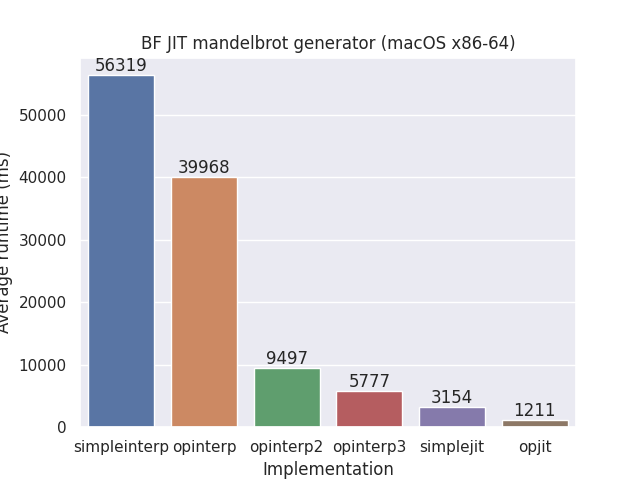
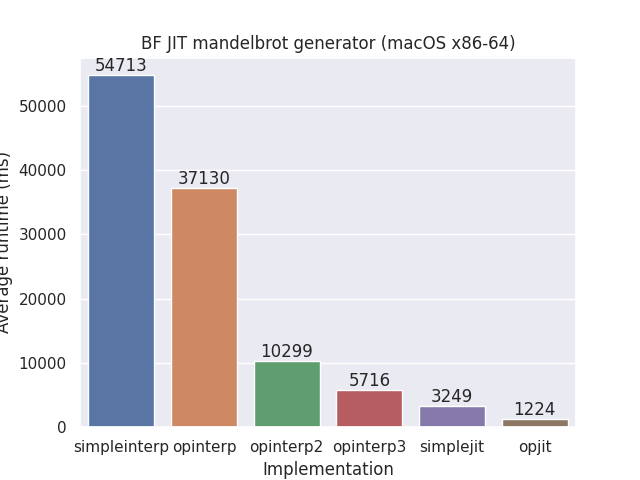
deploy: 50c344028abc7e2e6bb6fd50025e3222174b6dc7

diff --git a/bench/index.html b/bench/index.html
@@ -1,1 +1,1 @@
-<!DOCTYPE html><html lang="en"><head><meta charset="utf-8"><meta name="viewport" content="width=device-width, initial-scale=1.0"><meta name="generator" content="rustdoc"><meta name="description" content="API documentation for the Rust `bench` crate."><meta name="keywords" content="rust, rustlang, rust-lang, bench"><title>bench - Rust</title><link rel="preload" as="font" type="font/woff2" crossorigin href="../SourceSerif4-Regular.ttf.woff2"><link rel="preload" as="font" type="font/woff2" crossorigin href="../FiraSans-Regular.woff2"><link rel="preload" as="font" type="font/woff2" crossorigin href="../FiraSans-Medium.woff2"><link rel="preload" as="font" type="font/woff2" crossorigin href="../SourceCodePro-Regular.ttf.woff2"><link rel="preload" as="font" type="font/woff2" crossorigin href="../SourceSerif4-Bold.ttf.woff2"><link rel="preload" as="font" type="font/woff2" crossorigin href="../SourceCodePro-Semibold.ttf.woff2"><link rel="stylesheet" href="../normalize.css"><link rel="stylesheet" href="../rustdoc.css" id="mainThemeStyle"><link rel="stylesheet" href="../ayu.css" disabled><link rel="stylesheet" href="../dark.css" disabled><link rel="stylesheet" href="../light.css" id="themeStyle"><script id="default-settings" ></script><script src="../storage.js"></script><script defer src="../crates.js"></script><script defer src="../main.js"></script><noscript><link rel="stylesheet" href="../noscript.css"></noscript><link rel="alternate icon" type="image/png" href="../favicon-16x16.png"><link rel="alternate icon" type="image/png" href="../favicon-32x32.png"><link rel="icon" type="image/svg+xml" href="../favicon.svg"></head><body class="rustdoc mod crate"><!--[if lte IE 11]><div class="warning">This old browser is unsupported and will most likely display funky things.</div><![endif]--><nav class="mobile-topbar"><button class="sidebar-menu-toggle">&#9776;</button><a class="sidebar-logo" href="../bench/index.html"><div class="logo-container"><img class="rust-logo" src="../rust-logo.svg" alt="logo"></div></a><h2 class="location"></h2></nav><nav class="sidebar"><a class="sidebar-logo" href="../bench/index.html"><div class="logo-container"><img class="rust-logo" src="../rust-logo.svg" alt="logo"></div></a><h2 class="location"><a href="#">Crate bench</a></h2><div class="sidebar-elems"><div class="block"><ul><li class="version">Version 0.1.0</li><li><a id="all-types" href="all.html">All Items</a></li></ul></div><section><div class="block"><ul><li><a href="#macros">Macros</a></li><li><a href="#structs">Structs</a></li><li><a href="#constants">Constants</a></li><li><a href="#functions">Functions</a></li></ul></div></section></div></nav><main><div class="width-limiter"><div class="sub-container"><a class="sub-logo-container" href="../bench/index.html"><img class="rust-logo" src="../rust-logo.svg" alt="logo"></a><nav class="sub"><form class="search-form"><div class="search-container"><span></span><input class="search-input" name="search" autocomplete="off" spellcheck="false" placeholder="Click or press ‘S’ to search, ‘?’ for more options…" type="search"><div id="help-button" title="help" tabindex="-1"><button type="button">?</button></div><div id="settings-menu" tabindex="-1"><a href="../settings.html" title="settings"><img width="22" height="22" alt="Change settings" src="../wheel.svg"></a></div></div></form></nav></div><section id="main-content" class="content"><div class="main-heading"><h1 class="fqn"><span class="in-band">Crate <a class="mod" href="#">bench</a><button id="copy-path" onclick="copy_path(this)" title="Copy item path to clipboard"><img src="../clipboard.svg" width="19" height="18" alt="Copy item path"></button></span></h1><span class="out-of-band"><a class="srclink" href="../src/bench/lib.rs.html#1-175">source</a> · <a id="toggle-all-docs" href="javascript:void(0)" title="collapse all docs">[<span class="inner">&#x2212;</span>]</a></span></div><h2 id="macros" class="small-section-header"><a href="#macros">Macros</a></h2><div class="item-table"><div class="item-row"><div class="item-left module-item"><a class="macro" href="macro.arch_id.html" title="bench::arch_id macro">arch_id</a><span title="Restricted Visibility">&nbsp;🔒</span> </div></div><div class="item-row"><div class="item-left module-item"><a class="macro" href="macro.os_id.html" title="bench::os_id macro">os_id</a><span title="Restricted Visibility">&nbsp;🔒</span> </div></div></div><h2 id="structs" class="small-section-header"><a href="#structs">Structs</a></h2><div class="item-table"><div class="item-row"><div class="item-left module-item"><a class="struct" href="struct.ImplInfo.html" title="bench::ImplInfo struct">ImplInfo</a><span title="Restricted Visibility">&nbsp;🔒</span> </div></div></div><h2 id="constants" class="small-section-header"><a href="#constants">Constants</a></h2><div class="item-table"><div class="item-row"><div class="item-left module-item"><a class="constant" href="constant.ARCH_NAME.html" title="bench::ARCH_NAME constant">ARCH_NAME</a><span title="Restricted Visibility">&nbsp;🔒</span> </div></div><div class="item-row"><div class="item-left module-item"><a class="constant" href="constant.BENCH_DATA_DIR_NAME.html" title="bench::BENCH_DATA_DIR_NAME constant">BENCH_DATA_DIR_NAME</a><span title="Restricted Visibility">&nbsp;🔒</span> </div></div><div class="item-row"><div class="item-left module-item"><a class="constant" href="constant.DATA_FILE_PREFIX.html" title="bench::DATA_FILE_PREFIX constant">DATA_FILE_PREFIX</a><span title="Restricted Visibility">&nbsp;🔒</span> </div></div><div class="item-row"><div class="item-left module-item"><a class="constant" href="constant.OS_NAME.html" title="bench::OS_NAME constant">OS_NAME</a><span title="Restricted Visibility">&nbsp;🔒</span> </div></div></div><h2 id="functions" class="small-section-header"><a href="#functions">Functions</a></h2><div class="item-table"><div class="item-row"><div class="item-left module-item"><a class="fn" href="fn.benchmark.html" title="bench::benchmark fn">benchmark</a><span title="Restricted Visibility">&nbsp;🔒</span> </div></div><div class="item-row"><div class="item-left module-item"><a class="fn" href="fn.measure_results.html" title="bench::measure_results fn">measure_results</a></div></div><div class="item-row"><div class="item-left module-item"><a class="fn" href="fn.measure_results_for_file.html" title="bench::measure_results_for_file fn">measure_results_for_file</a><span title="Restricted Visibility">&nbsp;🔒</span> </div></div><div class="item-row"><div class="item-left module-item"><a class="fn" href="fn.output_data.html" title="bench::output_data fn">output_data</a><span title="Restricted Visibility">&nbsp;🔒</span> </div></div></div></section></div></main><div id="rustdoc-vars" data-root-path="../" data-current-crate="bench" data-themes="ayu,dark,light" data-resource-suffix="" data-rustdoc-version="1.65.0 (897e37553 2022-11-02)" ></div></body></html>
+<!DOCTYPE html><html lang="en"><head><meta charset="utf-8"><meta name="viewport" content="width=device-width, initial-scale=1.0"><meta name="generator" content="rustdoc"><meta name="description" content="API documentation for the Rust `bench` crate."><meta name="keywords" content="rust, rustlang, rust-lang, bench"><title>bench - Rust</title><link rel="preload" as="font" type="font/woff2" crossorigin href="../SourceSerif4-Regular.ttf.woff2"><link rel="preload" as="font" type="font/woff2" crossorigin href="../FiraSans-Regular.woff2"><link rel="preload" as="font" type="font/woff2" crossorigin href="../FiraSans-Medium.woff2"><link rel="preload" as="font" type="font/woff2" crossorigin href="../SourceCodePro-Regular.ttf.woff2"><link rel="preload" as="font" type="font/woff2" crossorigin href="../SourceSerif4-Bold.ttf.woff2"><link rel="preload" as="font" type="font/woff2" crossorigin href="../SourceCodePro-Semibold.ttf.woff2"><link rel="stylesheet" href="../normalize.css"><link rel="stylesheet" href="../rustdoc.css" id="mainThemeStyle"><link rel="stylesheet" href="../ayu.css" disabled><link rel="stylesheet" href="../dark.css" disabled><link rel="stylesheet" href="../light.css" id="themeStyle"><script id="default-settings" ></script><script src="../storage.js"></script><script defer src="../crates.js"></script><script defer src="../main.js"></script><noscript><link rel="stylesheet" href="../noscript.css"></noscript><link rel="alternate icon" type="image/png" href="../favicon-16x16.png"><link rel="alternate icon" type="image/png" href="../favicon-32x32.png"><link rel="icon" type="image/svg+xml" href="../favicon.svg"></head><body class="rustdoc mod crate"><!--[if lte IE 11]><div class="warning">This old browser is unsupported and will most likely display funky things.</div><![endif]--><nav class="mobile-topbar"><button class="sidebar-menu-toggle">&#9776;</button><a class="sidebar-logo" href="../bench/index.html"><div class="logo-container"><img class="rust-logo" src="../rust-logo.svg" alt="logo"></div></a><h2 class="location"></h2></nav><nav class="sidebar"><a class="sidebar-logo" href="../bench/index.html"><div class="logo-container"><img class="rust-logo" src="../rust-logo.svg" alt="logo"></div></a><h2 class="location"><a href="#">Crate bench</a></h2><div class="sidebar-elems"><div class="block"><ul><li class="version">Version 0.1.0</li><li><a id="all-types" href="all.html">All Items</a></li></ul></div><section><div class="block"><ul><li><a href="#macros">Macros</a></li><li><a href="#structs">Structs</a></li><li><a href="#constants">Constants</a></li><li><a href="#functions">Functions</a></li></ul></div></section></div></nav><main><div class="width-limiter"><div class="sub-container"><a class="sub-logo-container" href="../bench/index.html"><img class="rust-logo" src="../rust-logo.svg" alt="logo"></a><nav class="sub"><form class="search-form"><div class="search-container"><span></span><input class="search-input" name="search" autocomplete="off" spellcheck="false" placeholder="Click or press ‘S’ to search, ‘?’ for more options…" type="search"><div id="help-button" title="help" tabindex="-1"><button type="button">?</button></div><div id="settings-menu" tabindex="-1"><a href="../settings.html" title="settings"><img width="22" height="22" alt="Change settings" src="../wheel.svg"></a></div></div></form></nav></div><section id="main-content" class="content"><div class="main-heading"><h1 class="fqn"><span class="in-band">Crate <a class="mod" href="#">bench</a><button id="copy-path" onclick="copy_path(this)" title="Copy item path to clipboard"><img src="../clipboard.svg" width="19" height="18" alt="Copy item path"></button></span></h1><span class="out-of-band"><a class="srclink" href="../src/bench/lib.rs.html#1-179">source</a> · <a id="toggle-all-docs" href="javascript:void(0)" title="collapse all docs">[<span class="inner">&#x2212;</span>]</a></span></div><h2 id="macros" class="small-section-header"><a href="#macros">Macros</a></h2><div class="item-table"><div class="item-row"><div class="item-left module-item"><a class="macro" href="macro.arch_id.html" title="bench::arch_id macro">arch_id</a><span title="Restricted Visibility">&nbsp;🔒</span> </div></div><div class="item-row"><div class="item-left module-item"><a class="macro" href="macro.os_id.html" title="bench::os_id macro">os_id</a><span title="Restricted Visibility">&nbsp;🔒</span> </div></div></div><h2 id="structs" class="small-section-header"><a href="#structs">Structs</a></h2><div class="item-table"><div class="item-row"><div class="item-left module-item"><a class="struct" href="struct.ImplInfo.html" title="bench::ImplInfo struct">ImplInfo</a><span title="Restricted Visibility">&nbsp;🔒</span> </div></div></div><h2 id="constants" class="small-section-header"><a href="#constants">Constants</a></h2><div class="item-table"><div class="item-row"><div class="item-left module-item"><a class="constant" href="constant.ARCH_NAME.html" title="bench::ARCH_NAME constant">ARCH_NAME</a><span title="Restricted Visibility">&nbsp;🔒</span> </div></div><div class="item-row"><div class="item-left module-item"><a class="constant" href="constant.BENCH_DATA_DIR_NAME.html" title="bench::BENCH_DATA_DIR_NAME constant">BENCH_DATA_DIR_NAME</a><span title="Restricted Visibility">&nbsp;🔒</span> </div></div><div class="item-row"><div class="item-left module-item"><a class="constant" href="constant.DATA_FILE_PREFIX.html" title="bench::DATA_FILE_PREFIX constant">DATA_FILE_PREFIX</a><span title="Restricted Visibility">&nbsp;🔒</span> </div></div><div class="item-row"><div class="item-left module-item"><a class="constant" href="constant.OS_NAME.html" title="bench::OS_NAME constant">OS_NAME</a><span title="Restricted Visibility">&nbsp;🔒</span> </div></div></div><h2 id="functions" class="small-section-header"><a href="#functions">Functions</a></h2><div class="item-table"><div class="item-row"><div class="item-left module-item"><a class="fn" href="fn.benchmark.html" title="bench::benchmark fn">benchmark</a><span title="Restricted Visibility">&nbsp;🔒</span> </div></div><div class="item-row"><div class="item-left module-item"><a class="fn" href="fn.measure_results.html" title="bench::measure_results fn">measure_results</a></div></div><div class="item-row"><div class="item-left module-item"><a class="fn" href="fn.measure_results_for_file.html" title="bench::measure_results_for_file fn">measure_results_for_file</a><span title="Restricted Visibility">&nbsp;🔒</span> </div></div><div class="item-row"><div class="item-left module-item"><a class="fn" href="fn.output_data.html" title="bench::output_data fn">output_data</a><span title="Restricted Visibility">&nbsp;🔒</span> </div></div></div></section></div></main><div id="rustdoc-vars" data-root-path="../" data-current-crate="bench" data-themes="ayu,dark,light" data-resource-suffix="" data-rustdoc-version="1.65.0 (897e37553 2022-11-02)" ></div></body></html>

diff --git a/bench/fn.output_data.html b/bench/fn.output_data.html
@@ -1,1 +1,1 @@
-<!DOCTYPE html><html lang="en"><head><meta charset="utf-8"><meta name="viewport" content="width=device-width, initial-scale=1.0"><meta name="generator" content="rustdoc"><meta name="description" content="API documentation for the Rust `output_data` fn in crate `bench`."><meta name="keywords" content="rust, rustlang, rust-lang, output_data"><title>output_data in bench - Rust</title><link rel="preload" as="font" type="font/woff2" crossorigin href="../SourceSerif4-Regular.ttf.woff2"><link rel="preload" as="font" type="font/woff2" crossorigin href="../FiraSans-Regular.woff2"><link rel="preload" as="font" type="font/woff2" crossorigin href="../FiraSans-Medium.woff2"><link rel="preload" as="font" type="font/woff2" crossorigin href="../SourceCodePro-Regular.ttf.woff2"><link rel="preload" as="font" type="font/woff2" crossorigin href="../SourceSerif4-Bold.ttf.woff2"><link rel="preload" as="font" type="font/woff2" crossorigin href="../SourceCodePro-Semibold.ttf.woff2"><link rel="stylesheet" href="../normalize.css"><link rel="stylesheet" href="../rustdoc.css" id="mainThemeStyle"><link rel="stylesheet" href="../ayu.css" disabled><link rel="stylesheet" href="../dark.css" disabled><link rel="stylesheet" href="../light.css" id="themeStyle"><script id="default-settings" ></script><script src="../storage.js"></script><script defer src="sidebar-items.js"></script><script defer src="../main.js"></script><noscript><link rel="stylesheet" href="../noscript.css"></noscript><link rel="alternate icon" type="image/png" href="../favicon-16x16.png"><link rel="alternate icon" type="image/png" href="../favicon-32x32.png"><link rel="icon" type="image/svg+xml" href="../favicon.svg"></head><body class="rustdoc fn"><!--[if lte IE 11]><div class="warning">This old browser is unsupported and will most likely display funky things.</div><![endif]--><nav class="mobile-topbar"><button class="sidebar-menu-toggle">&#9776;</button><a class="sidebar-logo" href="../bench/index.html"><div class="logo-container"><img class="rust-logo" src="../rust-logo.svg" alt="logo"></div></a><h2 class="location"></h2></nav><nav class="sidebar"><a class="sidebar-logo" href="../bench/index.html"><div class="logo-container"><img class="rust-logo" src="../rust-logo.svg" alt="logo"></div></a><div class="sidebar-elems"><h2 class="location"><a href="index.html">In bench</a></h2></div></nav><main><div class="width-limiter"><div class="sub-container"><a class="sub-logo-container" href="../bench/index.html"><img class="rust-logo" src="../rust-logo.svg" alt="logo"></a><nav class="sub"><form class="search-form"><div class="search-container"><span></span><input class="search-input" name="search" autocomplete="off" spellcheck="false" placeholder="Click or press ‘S’ to search, ‘?’ for more options…" type="search"><div id="help-button" title="help" tabindex="-1"><button type="button">?</button></div><div id="settings-menu" tabindex="-1"><a href="../settings.html" title="settings"><img width="22" height="22" alt="Change settings" src="../wheel.svg"></a></div></div></form></nav></div><section id="main-content" class="content"><div class="main-heading"><h1 class="fqn"><span class="in-band">Function <a href="index.html">bench</a>::<wbr><a class="fn" href="#">output_data</a><button id="copy-path" onclick="copy_path(this)" title="Copy item path to clipboard"><img src="../clipboard.svg" width="19" height="18" alt="Copy item path"></button></span></h1><span class="out-of-band"><a class="srclink" href="../src/bench/lib.rs.html#139-175">source</a> · <a id="toggle-all-docs" href="javascript:void(0)" title="collapse all docs">[<span class="inner">&#x2212;</span>]</a></span></div><div class="docblock item-decl"><pre class="rust fn"><code>pub(crate) fn output_data&lt;const N:&nbsp;<a class="primitive" href="https://doc.rust-lang.org/1.65.0/std/primitive.usize.html">usize</a>&gt;(<br>&nbsp;&nbsp;&nbsp;&nbsp;title: &amp;<a class="primitive" href="https://doc.rust-lang.org/1.65.0/std/primitive.str.html">str</a>,<br>&nbsp;&nbsp;&nbsp;&nbsp;short_title: &amp;<a class="primitive" href="https://doc.rust-lang.org/1.65.0/std/primitive.str.html">str</a>,<br>&nbsp;&nbsp;&nbsp;&nbsp;impl_infos: <a class="primitive" href="https://doc.rust-lang.org/1.65.0/std/primitive.array.html">[</a><a class="struct" href="struct.ImplInfo.html" title="struct bench::ImplInfo">ImplInfo</a><a class="primitive" href="https://doc.rust-lang.org/1.65.0/std/primitive.array.html">; N]</a><br>) -&gt; <a class="enum" href="https://doc.rust-lang.org/1.65.0/core/result/enum.Result.html" title="enum core::result::Result">Result</a>&lt;<a class="primitive" href="https://doc.rust-lang.org/1.65.0/std/primitive.unit.html">()</a>, <a class="enum" href="../util/error/enum.BfError.html" title="enum util::error::BfError">BfError</a>&gt;</code></pre></div></section></div></main><div id="rustdoc-vars" data-root-path="../" data-current-crate="bench" data-themes="ayu,dark,light" data-resource-suffix="" data-rustdoc-version="1.65.0 (897e37553 2022-11-02)" ></div></body></html>
+<!DOCTYPE html><html lang="en"><head><meta charset="utf-8"><meta name="viewport" content="width=device-width, initial-scale=1.0"><meta name="generator" content="rustdoc"><meta name="description" content="API documentation for the Rust `output_data` fn in crate `bench`."><meta name="keywords" content="rust, rustlang, rust-lang, output_data"><title>output_data in bench - Rust</title><link rel="preload" as="font" type="font/woff2" crossorigin href="../SourceSerif4-Regular.ttf.woff2"><link rel="preload" as="font" type="font/woff2" crossorigin href="../FiraSans-Regular.woff2"><link rel="preload" as="font" type="font/woff2" crossorigin href="../FiraSans-Medium.woff2"><link rel="preload" as="font" type="font/woff2" crossorigin href="../SourceCodePro-Regular.ttf.woff2"><link rel="preload" as="font" type="font/woff2" crossorigin href="../SourceSerif4-Bold.ttf.woff2"><link rel="preload" as="font" type="font/woff2" crossorigin href="../SourceCodePro-Semibold.ttf.woff2"><link rel="stylesheet" href="../normalize.css"><link rel="stylesheet" href="../rustdoc.css" id="mainThemeStyle"><link rel="stylesheet" href="../ayu.css" disabled><link rel="stylesheet" href="../dark.css" disabled><link rel="stylesheet" href="../light.css" id="themeStyle"><script id="default-settings" ></script><script src="../storage.js"></script><script defer src="sidebar-items.js"></script><script defer src="../main.js"></script><noscript><link rel="stylesheet" href="../noscript.css"></noscript><link rel="alternate icon" type="image/png" href="../favicon-16x16.png"><link rel="alternate icon" type="image/png" href="../favicon-32x32.png"><link rel="icon" type="image/svg+xml" href="../favicon.svg"></head><body class="rustdoc fn"><!--[if lte IE 11]><div class="warning">This old browser is unsupported and will most likely display funky things.</div><![endif]--><nav class="mobile-topbar"><button class="sidebar-menu-toggle">&#9776;</button><a class="sidebar-logo" href="../bench/index.html"><div class="logo-container"><img class="rust-logo" src="../rust-logo.svg" alt="logo"></div></a><h2 class="location"></h2></nav><nav class="sidebar"><a class="sidebar-logo" href="../bench/index.html"><div class="logo-container"><img class="rust-logo" src="../rust-logo.svg" alt="logo"></div></a><div class="sidebar-elems"><h2 class="location"><a href="index.html">In bench</a></h2></div></nav><main><div class="width-limiter"><div class="sub-container"><a class="sub-logo-container" href="../bench/index.html"><img class="rust-logo" src="../rust-logo.svg" alt="logo"></a><nav class="sub"><form class="search-form"><div class="search-container"><span></span><input class="search-input" name="search" autocomplete="off" spellcheck="false" placeholder="Click or press ‘S’ to search, ‘?’ for more options…" type="search"><div id="help-button" title="help" tabindex="-1"><button type="button">?</button></div><div id="settings-menu" tabindex="-1"><a href="../settings.html" title="settings"><img width="22" height="22" alt="Change settings" src="../wheel.svg"></a></div></div></form></nav></div><section id="main-content" class="content"><div class="main-heading"><h1 class="fqn"><span class="in-band">Function <a href="index.html">bench</a>::<wbr><a class="fn" href="#">output_data</a><button id="copy-path" onclick="copy_path(this)" title="Copy item path to clipboard"><img src="../clipboard.svg" width="19" height="18" alt="Copy item path"></button></span></h1><span class="out-of-band"><a class="srclink" href="../src/bench/lib.rs.html#143-179">source</a> · <a id="toggle-all-docs" href="javascript:void(0)" title="collapse all docs">[<span class="inner">&#x2212;</span>]</a></span></div><div class="docblock item-decl"><pre class="rust fn"><code>pub(crate) fn output_data&lt;const N:&nbsp;<a class="primitive" href="https://doc.rust-lang.org/1.65.0/std/primitive.usize.html">usize</a>&gt;(<br>&nbsp;&nbsp;&nbsp;&nbsp;title: &amp;<a class="primitive" href="https://doc.rust-lang.org/1.65.0/std/primitive.str.html">str</a>,<br>&nbsp;&nbsp;&nbsp;&nbsp;short_title: &amp;<a class="primitive" href="https://doc.rust-lang.org/1.65.0/std/primitive.str.html">str</a>,<br>&nbsp;&nbsp;&nbsp;&nbsp;impl_infos: <a class="primitive" href="https://doc.rust-lang.org/1.65.0/std/primitive.array.html">[</a><a class="struct" href="struct.ImplInfo.html" title="struct bench::ImplInfo">ImplInfo</a><a class="primitive" href="https://doc.rust-lang.org/1.65.0/std/primitive.array.html">; N]</a><br>) -&gt; <a class="enum" href="https://doc.rust-lang.org/1.65.0/core/result/enum.Result.html" title="enum core::result::Result">Result</a>&lt;<a class="primitive" href="https://doc.rust-lang.org/1.65.0/std/primitive.unit.html">()</a>, <a class="enum" href="../util/error/enum.BfError.html" title="enum util::error::BfError">BfError</a>&gt;</code></pre></div></section></div></main><div id="rustdoc-vars" data-root-path="../" data-current-crate="bench" data-themes="ayu,dark,light" data-resource-suffix="" data-rustdoc-version="1.65.0 (897e37553 2022-11-02)" ></div></body></html>

diff --git a/bench/fn.benchmark.html b/bench/fn.benchmark.html
@@ -1,1 +1,1 @@
-<!DOCTYPE html><html lang="en"><head><meta charset="utf-8"><meta name="viewport" content="width=device-width, initial-scale=1.0"><meta name="generator" content="rustdoc"><meta name="description" content="API documentation for the Rust `benchmark` fn in crate `bench`."><meta name="keywords" content="rust, rustlang, rust-lang, benchmark"><title>benchmark in bench - Rust</title><link rel="preload" as="font" type="font/woff2" crossorigin href="../SourceSerif4-Regular.ttf.woff2"><link rel="preload" as="font" type="font/woff2" crossorigin href="../FiraSans-Regular.woff2"><link rel="preload" as="font" type="font/woff2" crossorigin href="../FiraSans-Medium.woff2"><link rel="preload" as="font" type="font/woff2" crossorigin href="../SourceCodePro-Regular.ttf.woff2"><link rel="preload" as="font" type="font/woff2" crossorigin href="../SourceSerif4-Bold.ttf.woff2"><link rel="preload" as="font" type="font/woff2" crossorigin href="../SourceCodePro-Semibold.ttf.woff2"><link rel="stylesheet" href="../normalize.css"><link rel="stylesheet" href="../rustdoc.css" id="mainThemeStyle"><link rel="stylesheet" href="../ayu.css" disabled><link rel="stylesheet" href="../dark.css" disabled><link rel="stylesheet" href="../light.css" id="themeStyle"><script id="default-settings" ></script><script src="../storage.js"></script><script defer src="sidebar-items.js"></script><script defer src="../main.js"></script><noscript><link rel="stylesheet" href="../noscript.css"></noscript><link rel="alternate icon" type="image/png" href="../favicon-16x16.png"><link rel="alternate icon" type="image/png" href="../favicon-32x32.png"><link rel="icon" type="image/svg+xml" href="../favicon.svg"></head><body class="rustdoc fn"><!--[if lte IE 11]><div class="warning">This old browser is unsupported and will most likely display funky things.</div><![endif]--><nav class="mobile-topbar"><button class="sidebar-menu-toggle">&#9776;</button><a class="sidebar-logo" href="../bench/index.html"><div class="logo-container"><img class="rust-logo" src="../rust-logo.svg" alt="logo"></div></a><h2 class="location"></h2></nav><nav class="sidebar"><a class="sidebar-logo" href="../bench/index.html"><div class="logo-container"><img class="rust-logo" src="../rust-logo.svg" alt="logo"></div></a><div class="sidebar-elems"><h2 class="location"><a href="index.html">In bench</a></h2></div></nav><main><div class="width-limiter"><div class="sub-container"><a class="sub-logo-container" href="../bench/index.html"><img class="rust-logo" src="../rust-logo.svg" alt="logo"></a><nav class="sub"><form class="search-form"><div class="search-container"><span></span><input class="search-input" name="search" autocomplete="off" spellcheck="false" placeholder="Click or press ‘S’ to search, ‘?’ for more options…" type="search"><div id="help-button" title="help" tabindex="-1"><button type="button">?</button></div><div id="settings-menu" tabindex="-1"><a href="../settings.html" title="settings"><img width="22" height="22" alt="Change settings" src="../wheel.svg"></a></div></div></form></nav></div><section id="main-content" class="content"><div class="main-heading"><h1 class="fqn"><span class="in-band">Function <a href="index.html">bench</a>::<wbr><a class="fn" href="#">benchmark</a><button id="copy-path" onclick="copy_path(this)" title="Copy item path to clipboard"><img src="../clipboard.svg" width="19" height="18" alt="Copy item path"></button></span></h1><span class="out-of-band"><a class="srclink" href="../src/bench/lib.rs.html#117-137">source</a> · <a id="toggle-all-docs" href="javascript:void(0)" title="collapse all docs">[<span class="inner">&#x2212;</span>]</a></span></div><div class="docblock item-decl"><pre class="rust fn"><code>pub(crate) fn benchmark(<br>&nbsp;&nbsp;&nbsp;&nbsp;name: &amp;<a class="primitive" href="https://doc.rust-lang.org/1.65.0/std/primitive.str.html">str</a>,<br>&nbsp;&nbsp;&nbsp;&nbsp;run_function: impl <a class="trait" href="../util/run/trait.RunFunction.html" title="trait util::run::RunFunction">RunFunction</a>,<br>&nbsp;&nbsp;&nbsp;&nbsp;source_code: &amp;<a class="primitive" href="https://doc.rust-lang.org/1.65.0/std/primitive.str.html">str</a>,<br>&nbsp;&nbsp;&nbsp;&nbsp;input: &amp;<a class="primitive" href="https://doc.rust-lang.org/1.65.0/std/primitive.str.html">str</a><br>) -&gt; <a class="enum" href="https://doc.rust-lang.org/1.65.0/core/result/enum.Result.html" title="enum core::result::Result">Result</a>&lt;<a class="primitive" href="https://doc.rust-lang.org/1.65.0/std/primitive.u128.html">u128</a>, <a class="enum" href="../util/error/enum.BfError.html" title="enum util::error::BfError">BfError</a>&gt;</code></pre></div></section></div></main><div id="rustdoc-vars" data-root-path="../" data-current-crate="bench" data-themes="ayu,dark,light" data-resource-suffix="" data-rustdoc-version="1.65.0 (897e37553 2022-11-02)" ></div></body></html>
+<!DOCTYPE html><html lang="en"><head><meta charset="utf-8"><meta name="viewport" content="width=device-width, initial-scale=1.0"><meta name="generator" content="rustdoc"><meta name="description" content="API documentation for the Rust `benchmark` fn in crate `bench`."><meta name="keywords" content="rust, rustlang, rust-lang, benchmark"><title>benchmark in bench - Rust</title><link rel="preload" as="font" type="font/woff2" crossorigin href="../SourceSerif4-Regular.ttf.woff2"><link rel="preload" as="font" type="font/woff2" crossorigin href="../FiraSans-Regular.woff2"><link rel="preload" as="font" type="font/woff2" crossorigin href="../FiraSans-Medium.woff2"><link rel="preload" as="font" type="font/woff2" crossorigin href="../SourceCodePro-Regular.ttf.woff2"><link rel="preload" as="font" type="font/woff2" crossorigin href="../SourceSerif4-Bold.ttf.woff2"><link rel="preload" as="font" type="font/woff2" crossorigin href="../SourceCodePro-Semibold.ttf.woff2"><link rel="stylesheet" href="../normalize.css"><link rel="stylesheet" href="../rustdoc.css" id="mainThemeStyle"><link rel="stylesheet" href="../ayu.css" disabled><link rel="stylesheet" href="../dark.css" disabled><link rel="stylesheet" href="../light.css" id="themeStyle"><script id="default-settings" ></script><script src="../storage.js"></script><script defer src="sidebar-items.js"></script><script defer src="../main.js"></script><noscript><link rel="stylesheet" href="../noscript.css"></noscript><link rel="alternate icon" type="image/png" href="../favicon-16x16.png"><link rel="alternate icon" type="image/png" href="../favicon-32x32.png"><link rel="icon" type="image/svg+xml" href="../favicon.svg"></head><body class="rustdoc fn"><!--[if lte IE 11]><div class="warning">This old browser is unsupported and will most likely display funky things.</div><![endif]--><nav class="mobile-topbar"><button class="sidebar-menu-toggle">&#9776;</button><a class="sidebar-logo" href="../bench/index.html"><div class="logo-container"><img class="rust-logo" src="../rust-logo.svg" alt="logo"></div></a><h2 class="location"></h2></nav><nav class="sidebar"><a class="sidebar-logo" href="../bench/index.html"><div class="logo-container"><img class="rust-logo" src="../rust-logo.svg" alt="logo"></div></a><div class="sidebar-elems"><h2 class="location"><a href="index.html">In bench</a></h2></div></nav><main><div class="width-limiter"><div class="sub-container"><a class="sub-logo-container" href="../bench/index.html"><img class="rust-logo" src="../rust-logo.svg" alt="logo"></a><nav class="sub"><form class="search-form"><div class="search-container"><span></span><input class="search-input" name="search" autocomplete="off" spellcheck="false" placeholder="Click or press ‘S’ to search, ‘?’ for more options…" type="search"><div id="help-button" title="help" tabindex="-1"><button type="button">?</button></div><div id="settings-menu" tabindex="-1"><a href="../settings.html" title="settings"><img width="22" height="22" alt="Change settings" src="../wheel.svg"></a></div></div></form></nav></div><section id="main-content" class="content"><div class="main-heading"><h1 class="fqn"><span class="in-band">Function <a href="index.html">bench</a>::<wbr><a class="fn" href="#">benchmark</a><button id="copy-path" onclick="copy_path(this)" title="Copy item path to clipboard"><img src="../clipboard.svg" width="19" height="18" alt="Copy item path"></button></span></h1><span class="out-of-band"><a class="srclink" href="../src/bench/lib.rs.html#117-141">source</a> · <a id="toggle-all-docs" href="javascript:void(0)" title="collapse all docs">[<span class="inner">&#x2212;</span>]</a></span></div><div class="docblock item-decl"><pre class="rust fn"><code>pub(crate) fn benchmark(<br>&nbsp;&nbsp;&nbsp;&nbsp;name: &amp;<a class="primitive" href="https://doc.rust-lang.org/1.65.0/std/primitive.str.html">str</a>,<br>&nbsp;&nbsp;&nbsp;&nbsp;run_function: impl <a class="trait" href="../util/run/trait.RunFunction.html" title="trait util::run::RunFunction">RunFunction</a>,<br>&nbsp;&nbsp;&nbsp;&nbsp;source_code: &amp;<a class="primitive" href="https://doc.rust-lang.org/1.65.0/std/primitive.str.html">str</a>,<br>&nbsp;&nbsp;&nbsp;&nbsp;input: &amp;<a class="primitive" href="https://doc.rust-lang.org/1.65.0/std/primitive.str.html">str</a><br>) -&gt; <a class="enum" href="https://doc.rust-lang.org/1.65.0/core/result/enum.Result.html" title="enum core::result::Result">Result</a>&lt;<a class="primitive" href="https://doc.rust-lang.org/1.65.0/std/primitive.u128.html">u128</a>, <a class="enum" href="../util/error/enum.BfError.html" title="enum util::error::BfError">BfError</a>&gt;</code></pre></div></section></div></main><div id="rustdoc-vars" data-root-path="../" data-current-crate="bench" data-themes="ayu,dark,light" data-resource-suffix="" data-rustdoc-version="1.65.0 (897e37553 2022-11-02)" ></div></body></html>

diff --git a/settings.html b/settings.html
@@ -1,1 +1,1 @@
-<!DOCTYPE html><html lang="en"><head><meta charset="utf-8"><meta name="viewport" content="width=device-width, initial-scale=1.0"><meta name="generator" content="rustdoc"><meta name="description" content="Settings of Rustdoc"><meta name="keywords" content="rust, rustlang, rust-lang"><title>Rustdoc settings</title><link rel="preload" as="font" type="font/woff2" crossorigin href="./SourceSerif4-Regular.ttf.woff2"><link rel="preload" as="font" type="font/woff2" crossorigin href="./FiraSans-Regular.woff2"><link rel="preload" as="font" type="font/woff2" crossorigin href="./FiraSans-Medium.woff2"><link rel="preload" as="font" type="font/woff2" crossorigin href="./SourceCodePro-Regular.ttf.woff2"><link rel="preload" as="font" type="font/woff2" crossorigin href="./SourceSerif4-Bold.ttf.woff2"><link rel="preload" as="font" type="font/woff2" crossorigin href="./SourceCodePro-Semibold.ttf.woff2"><link rel="stylesheet" href="./normalize.css"><link rel="stylesheet" href="./rustdoc.css" id="mainThemeStyle"><link rel="stylesheet" href="./ayu.css" disabled><link rel="stylesheet" href="./dark.css" disabled><link rel="stylesheet" href="./light.css" id="themeStyle"><script id="default-settings" ></script><script src="./storage.js"></script><script defer src="./main.js"></script><noscript><link rel="stylesheet" href="./noscript.css"></noscript><link rel="alternate icon" type="image/png" href="./favicon-16x16.png"><link rel="alternate icon" type="image/png" href="./favicon-32x32.png"><link rel="icon" type="image/svg+xml" href="./favicon.svg"></head><body class="rustdoc mod"><!--[if lte IE 11]><div class="warning">This old browser is unsupported and will most likely display funky things.</div><![endif]--><nav class="mobile-topbar"><button class="sidebar-menu-toggle">&#9776;</button><a class="sidebar-logo" href="./simpleinterp/index.html"><div class="logo-container"><img class="rust-logo" src="./rust-logo.svg" alt="logo"></div></a><h2 class="location"></h2></nav><nav class="sidebar"><a class="sidebar-logo" href="./simpleinterp/index.html"><div class="logo-container"><img class="rust-logo" src="./rust-logo.svg" alt="logo"></div></a><h2 class="location">Settings</h2><div class="sidebar-elems"></div></nav><main><div class="width-limiter"><div class="sub-container"><a class="sub-logo-container" href="./simpleinterp/index.html"><img class="rust-logo" src="./rust-logo.svg" alt="logo"></a><nav class="sub"><form class="search-form"><div class="search-container"><span></span><input class="search-input" name="search" autocomplete="off" spellcheck="false" placeholder="Click or press ‘S’ to search, ‘?’ for more options…" type="search"><div id="help-button" title="help" tabindex="-1"><button type="button">?</button></div><div id="settings-menu" tabindex="-1"><a href="./settings.html" title="settings"><img width="22" height="22" alt="Change settings" src="./wheel.svg"></a></div></div></form></nav></div><section id="main-content" class="content"><div class="main-heading"><h1 class="fqn"><span class="in-band">Rustdoc settings</span></h1><span class="out-of-band"><a id="back" href="javascript:void(0)" onclick="history.back();">Back</a></span></div><noscript><section>You need to enable Javascript be able to update your settings.</section></noscript><link rel="stylesheet" type="text/css" href="settings.css"><script defer src="settings.js"></script></section></div></main><div id="rustdoc-vars" data-root-path="./" data-current-crate="simpleinterp" data-themes="ayu,dark,light" data-resource-suffix="" data-rustdoc-version="1.65.0 (897e37553 2022-11-02)" ></div></body></html>
+<!DOCTYPE html><html lang="en"><head><meta charset="utf-8"><meta name="viewport" content="width=device-width, initial-scale=1.0"><meta name="generator" content="rustdoc"><meta name="description" content="Settings of Rustdoc"><meta name="keywords" content="rust, rustlang, rust-lang"><title>Rustdoc settings</title><link rel="preload" as="font" type="font/woff2" crossorigin href="./SourceSerif4-Regular.ttf.woff2"><link rel="preload" as="font" type="font/woff2" crossorigin href="./FiraSans-Regular.woff2"><link rel="preload" as="font" type="font/woff2" crossorigin href="./FiraSans-Medium.woff2"><link rel="preload" as="font" type="font/woff2" crossorigin href="./SourceCodePro-Regular.ttf.woff2"><link rel="preload" as="font" type="font/woff2" crossorigin href="./SourceSerif4-Bold.ttf.woff2"><link rel="preload" as="font" type="font/woff2" crossorigin href="./SourceCodePro-Semibold.ttf.woff2"><link rel="stylesheet" href="./normalize.css"><link rel="stylesheet" href="./rustdoc.css" id="mainThemeStyle"><link rel="stylesheet" href="./ayu.css" disabled><link rel="stylesheet" href="./dark.css" disabled><link rel="stylesheet" href="./light.css" id="themeStyle"><script id="default-settings" ></script><script src="./storage.js"></script><script defer src="./main.js"></script><noscript><link rel="stylesheet" href="./noscript.css"></noscript><link rel="alternate icon" type="image/png" href="./favicon-16x16.png"><link rel="alternate icon" type="image/png" href="./favicon-32x32.png"><link rel="icon" type="image/svg+xml" href="./favicon.svg"></head><body class="rustdoc mod"><!--[if lte IE 11]><div class="warning">This old browser is unsupported and will most likely display funky things.</div><![endif]--><nav class="mobile-topbar"><button class="sidebar-menu-toggle">&#9776;</button><a class="sidebar-logo" href="./simplejit/index.html"><div class="logo-container"><img class="rust-logo" src="./rust-logo.svg" alt="logo"></div></a><h2 class="location"></h2></nav><nav class="sidebar"><a class="sidebar-logo" href="./simplejit/index.html"><div class="logo-container"><img class="rust-logo" src="./rust-logo.svg" alt="logo"></div></a><h2 class="location">Settings</h2><div class="sidebar-elems"></div></nav><main><div class="width-limiter"><div class="sub-container"><a class="sub-logo-container" href="./simplejit/index.html"><img class="rust-logo" src="./rust-logo.svg" alt="logo"></a><nav class="sub"><form class="search-form"><div class="search-container"><span></span><input class="search-input" name="search" autocomplete="off" spellcheck="false" placeholder="Click or press ‘S’ to search, ‘?’ for more options…" type="search"><div id="help-button" title="help" tabindex="-1"><button type="button">?</button></div><div id="settings-menu" tabindex="-1"><a href="./settings.html" title="settings"><img width="22" height="22" alt="Change settings" src="./wheel.svg"></a></div></div></form></nav></div><section id="main-content" class="content"><div class="main-heading"><h1 class="fqn"><span class="in-band">Rustdoc settings</span></h1><span class="out-of-band"><a id="back" href="javascript:void(0)" onclick="history.back();">Back</a></span></div><noscript><section>You need to enable Javascript be able to update your settings.</section></noscript><link rel="stylesheet" type="text/css" href="settings.css"><script defer src="settings.js"></script></section></div></main><div id="rustdoc-vars" data-root-path="./" data-current-crate="simplejit" data-themes="ayu,dark,light" data-resource-suffix="" data-rustdoc-version="1.65.0 (897e37553 2022-11-02)" ></div></body></html>

diff --git a/src/bench/lib.rs.html b/src/bench/lib.rs.html
@@ -173,6 +173,10 @@
 <span id="173">173</span>
 <span id="174">174</span>
 <span id="175">175</span>
+<span id="176">176</span>
+<span id="177">177</span>
+<span id="178">178</span>
+<span id="179">179</span>
 </pre><pre class="rust"><code><span class="kw">use </span>{
     std::{fs, time::Instant},
     util::{BfError, RunFunction},
@@ -308,7 +312,11 @@
 
     <span class="kw">let </span>sum = times.into_iter().sum::&lt;u128&gt;();
     <span class="kw">let </span>num_runs_u128: u128 = NUM_RUNS.try_into()<span class="question-mark">?</span>;
-    <span class="prelude-val">Ok</span>(sum / num_runs_u128)
+
+    <span class="kw">let </span>result = sum / num_runs_u128;
+    <span class="macro">println!</span>(<span class="string">&quot;Completed in {result}ms on average over {NUM_RUNS} runs.&quot;</span>);
+
+    <span class="prelude-val">Ok</span>(result)
 }
 
 <span class="kw">fn </span>output_data&lt;<span class="kw">const </span>N: usize&gt;(
